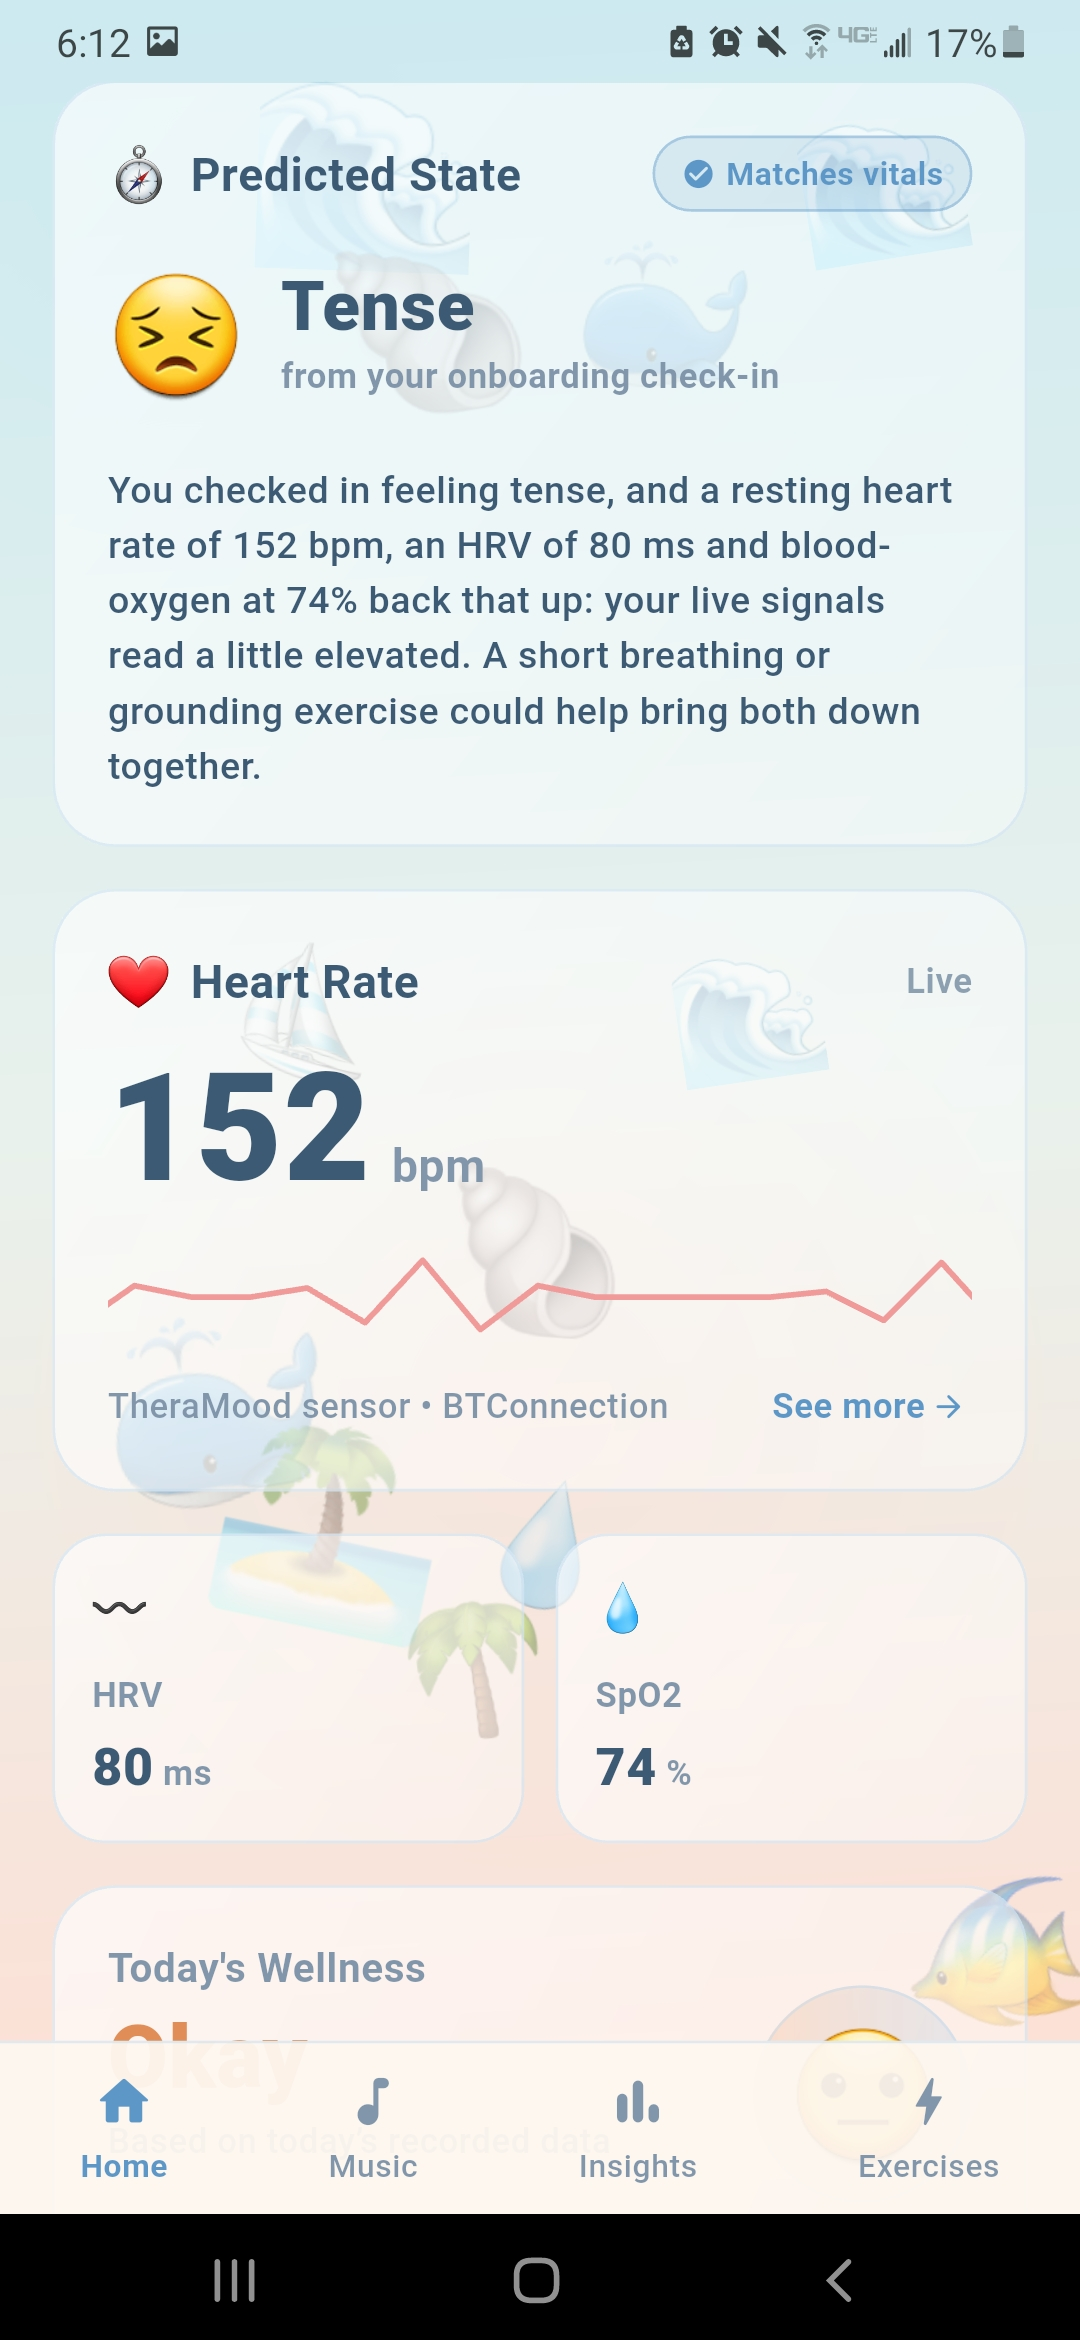
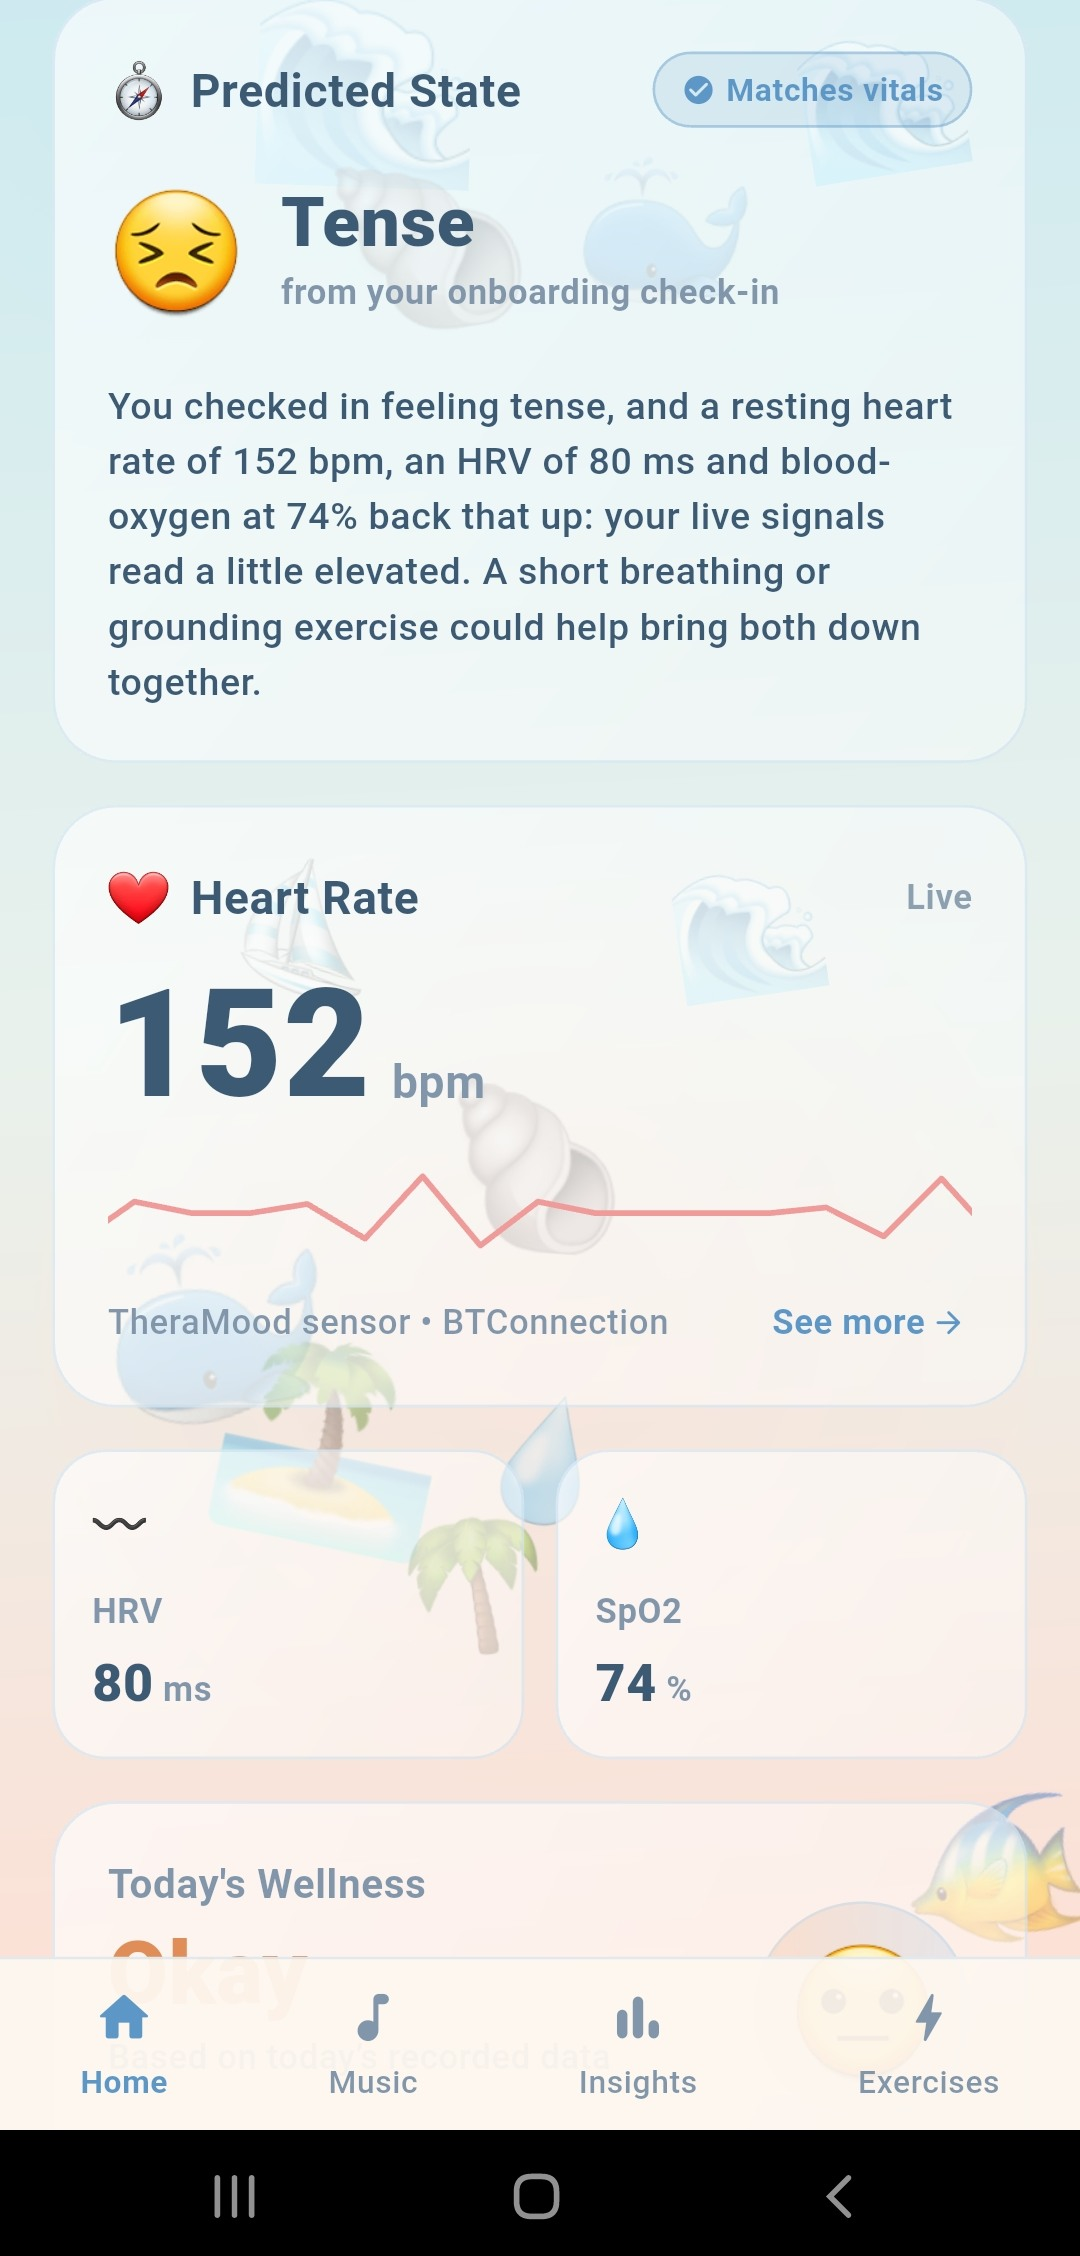
Crop Android status bar from app screenshots
Removed the 84px system status bar (clock, battery, signal icons)
from all seven screenshots and matched the phone mockup's
aspect ratio to the new 1080x2256 dimensions.

diff --git a/css/style.css b/css/style.css
@@ -323,7 +323,7 @@ section { padding: clamp(4.5rem, 9vw, 7.5rem) 0; }
 .phone {
   position: relative;
   width: min(300px, 74vw);
-  aspect-ratio: 1080 / 2340;
+  aspect-ratio: 1080 / 2256;
   border-radius: 44px;
   background: #1d2733;
   padding: 9px;
